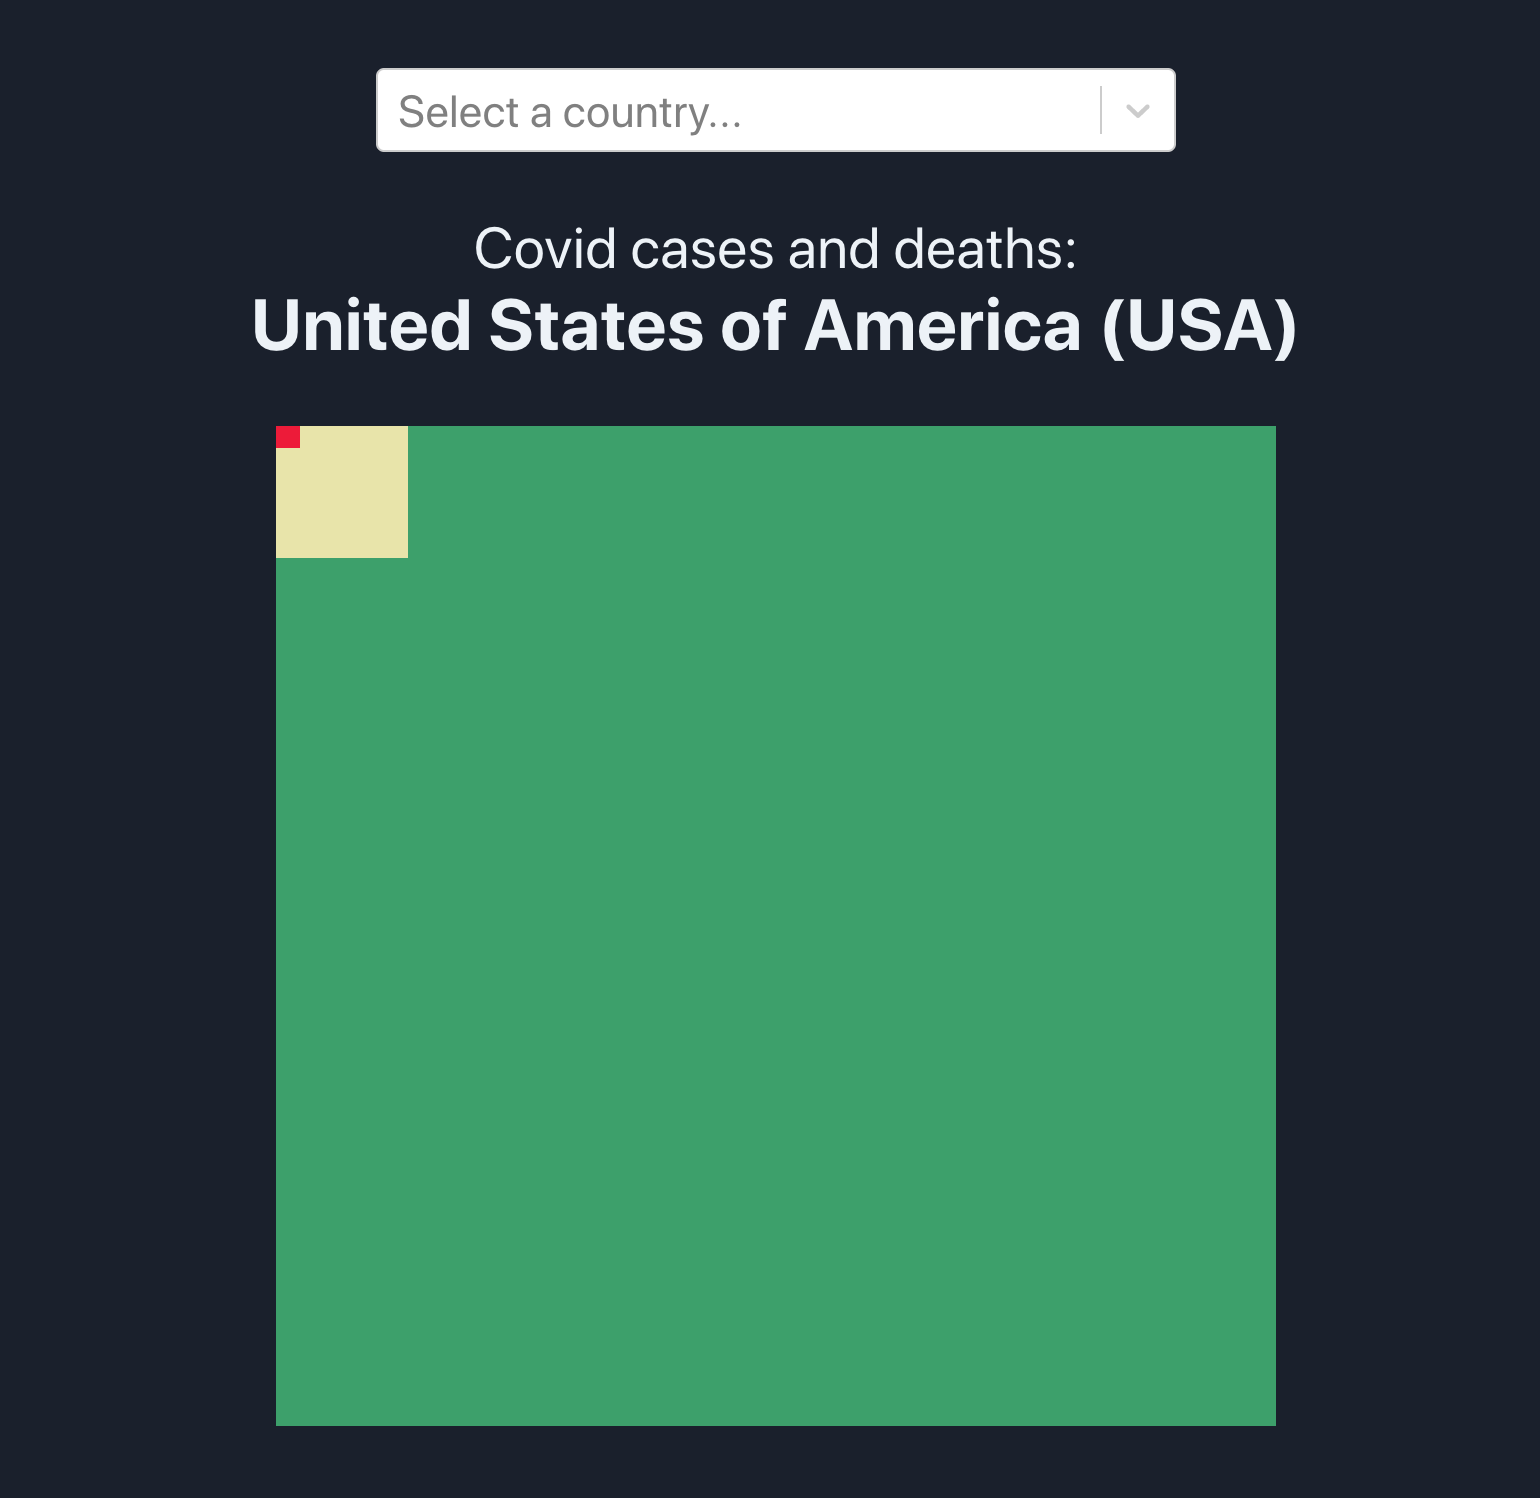
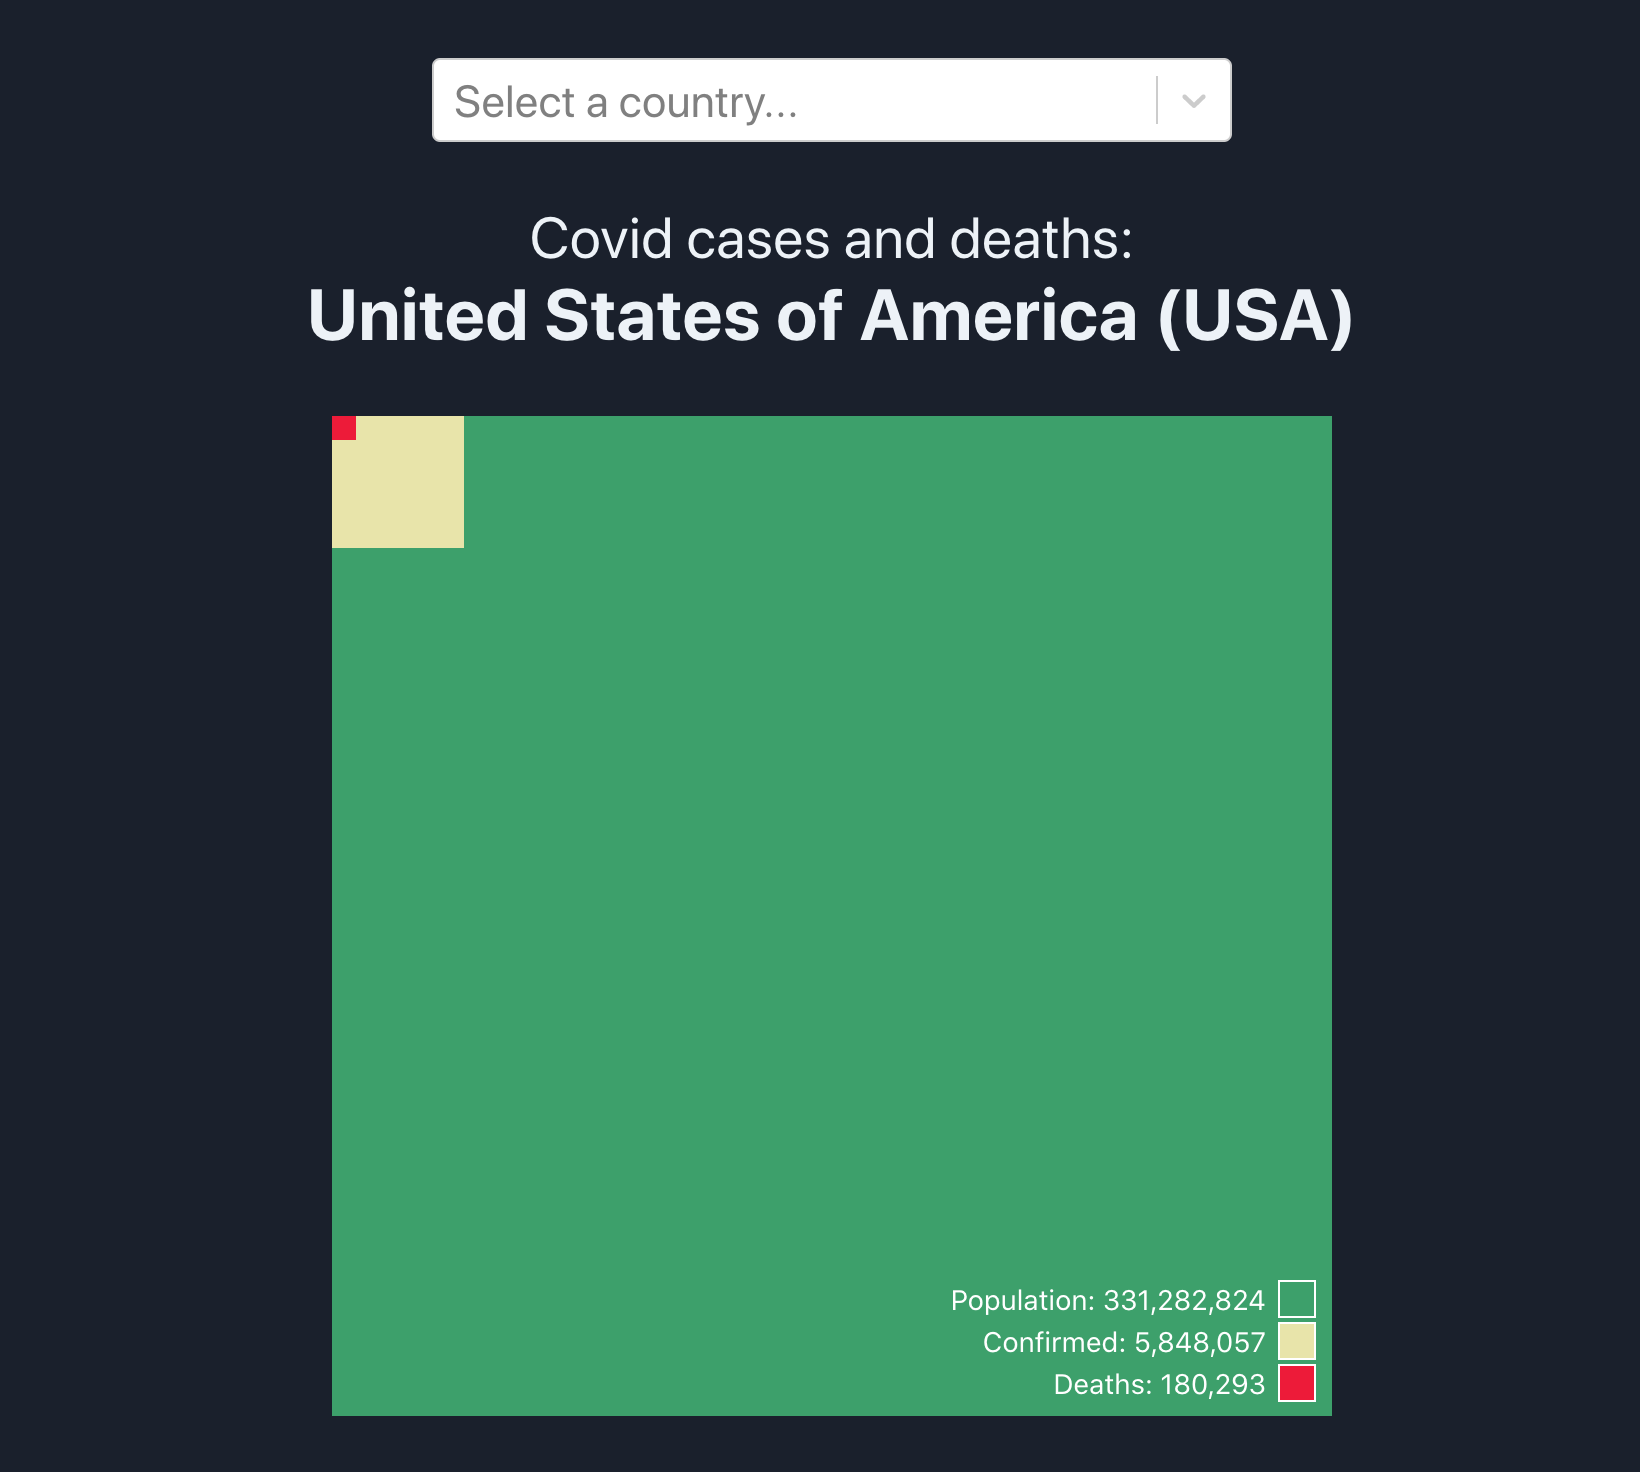
Update Readme

Changed region(s): [[0.1558, 0.0312, 0.8416, 0.25], [0.1558, 0.2812, 0.8416, 0.9688], [0.2494, 0.2812, 0.3117, 0.375]]

diff --git a/README.md b/README.md
@@ -20,11 +20,12 @@ yarn start
 
 ## TODO
 
-- [ ] Add legend with the actual numbers
+- [x] Add legend with the actual numbers
+- [ ] Give the app an A11y pass
+- [ ] Add dark/light mode toggle
 - [ ] Setup SSR
 - [ ] Show when the information was last updated
 - [ ] Improve routing - maybe use country codes?
-- [ ] Fix viewpoint changing when clicking on the select (on mobile)
 - [ ] Make it prettier (submit a PR if you have ideas!)
 
 ## Acknowledgements
